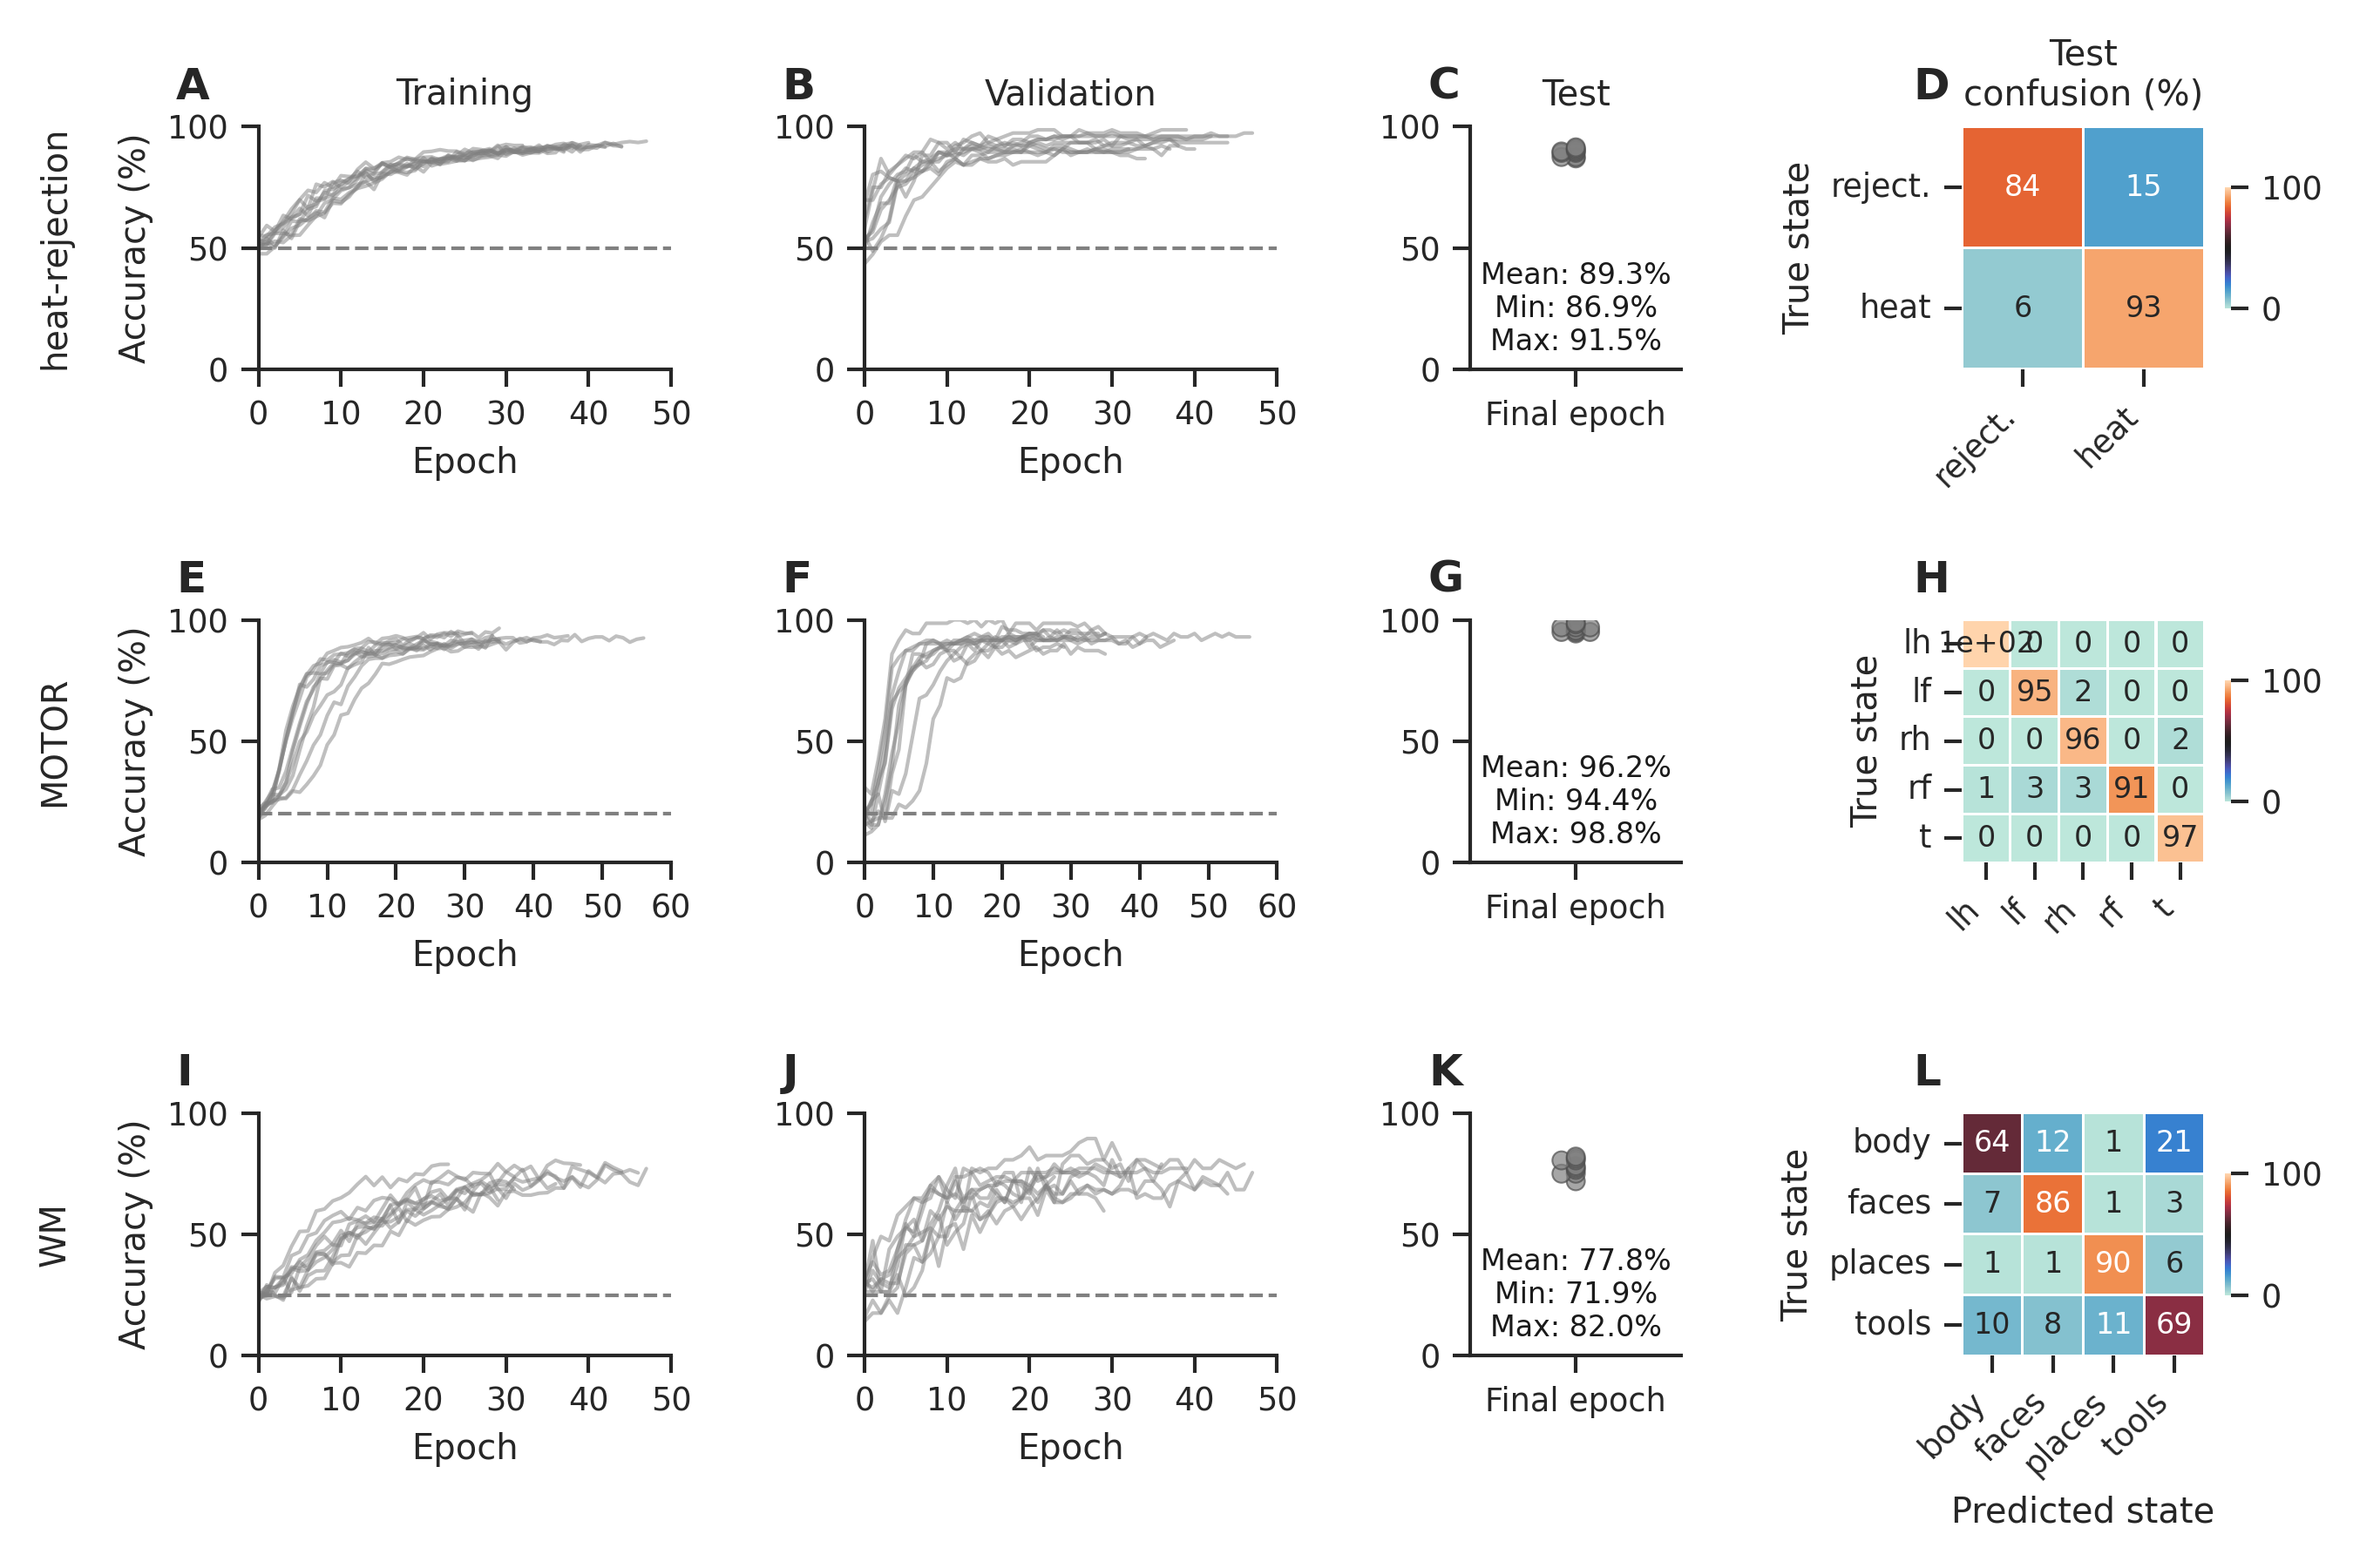
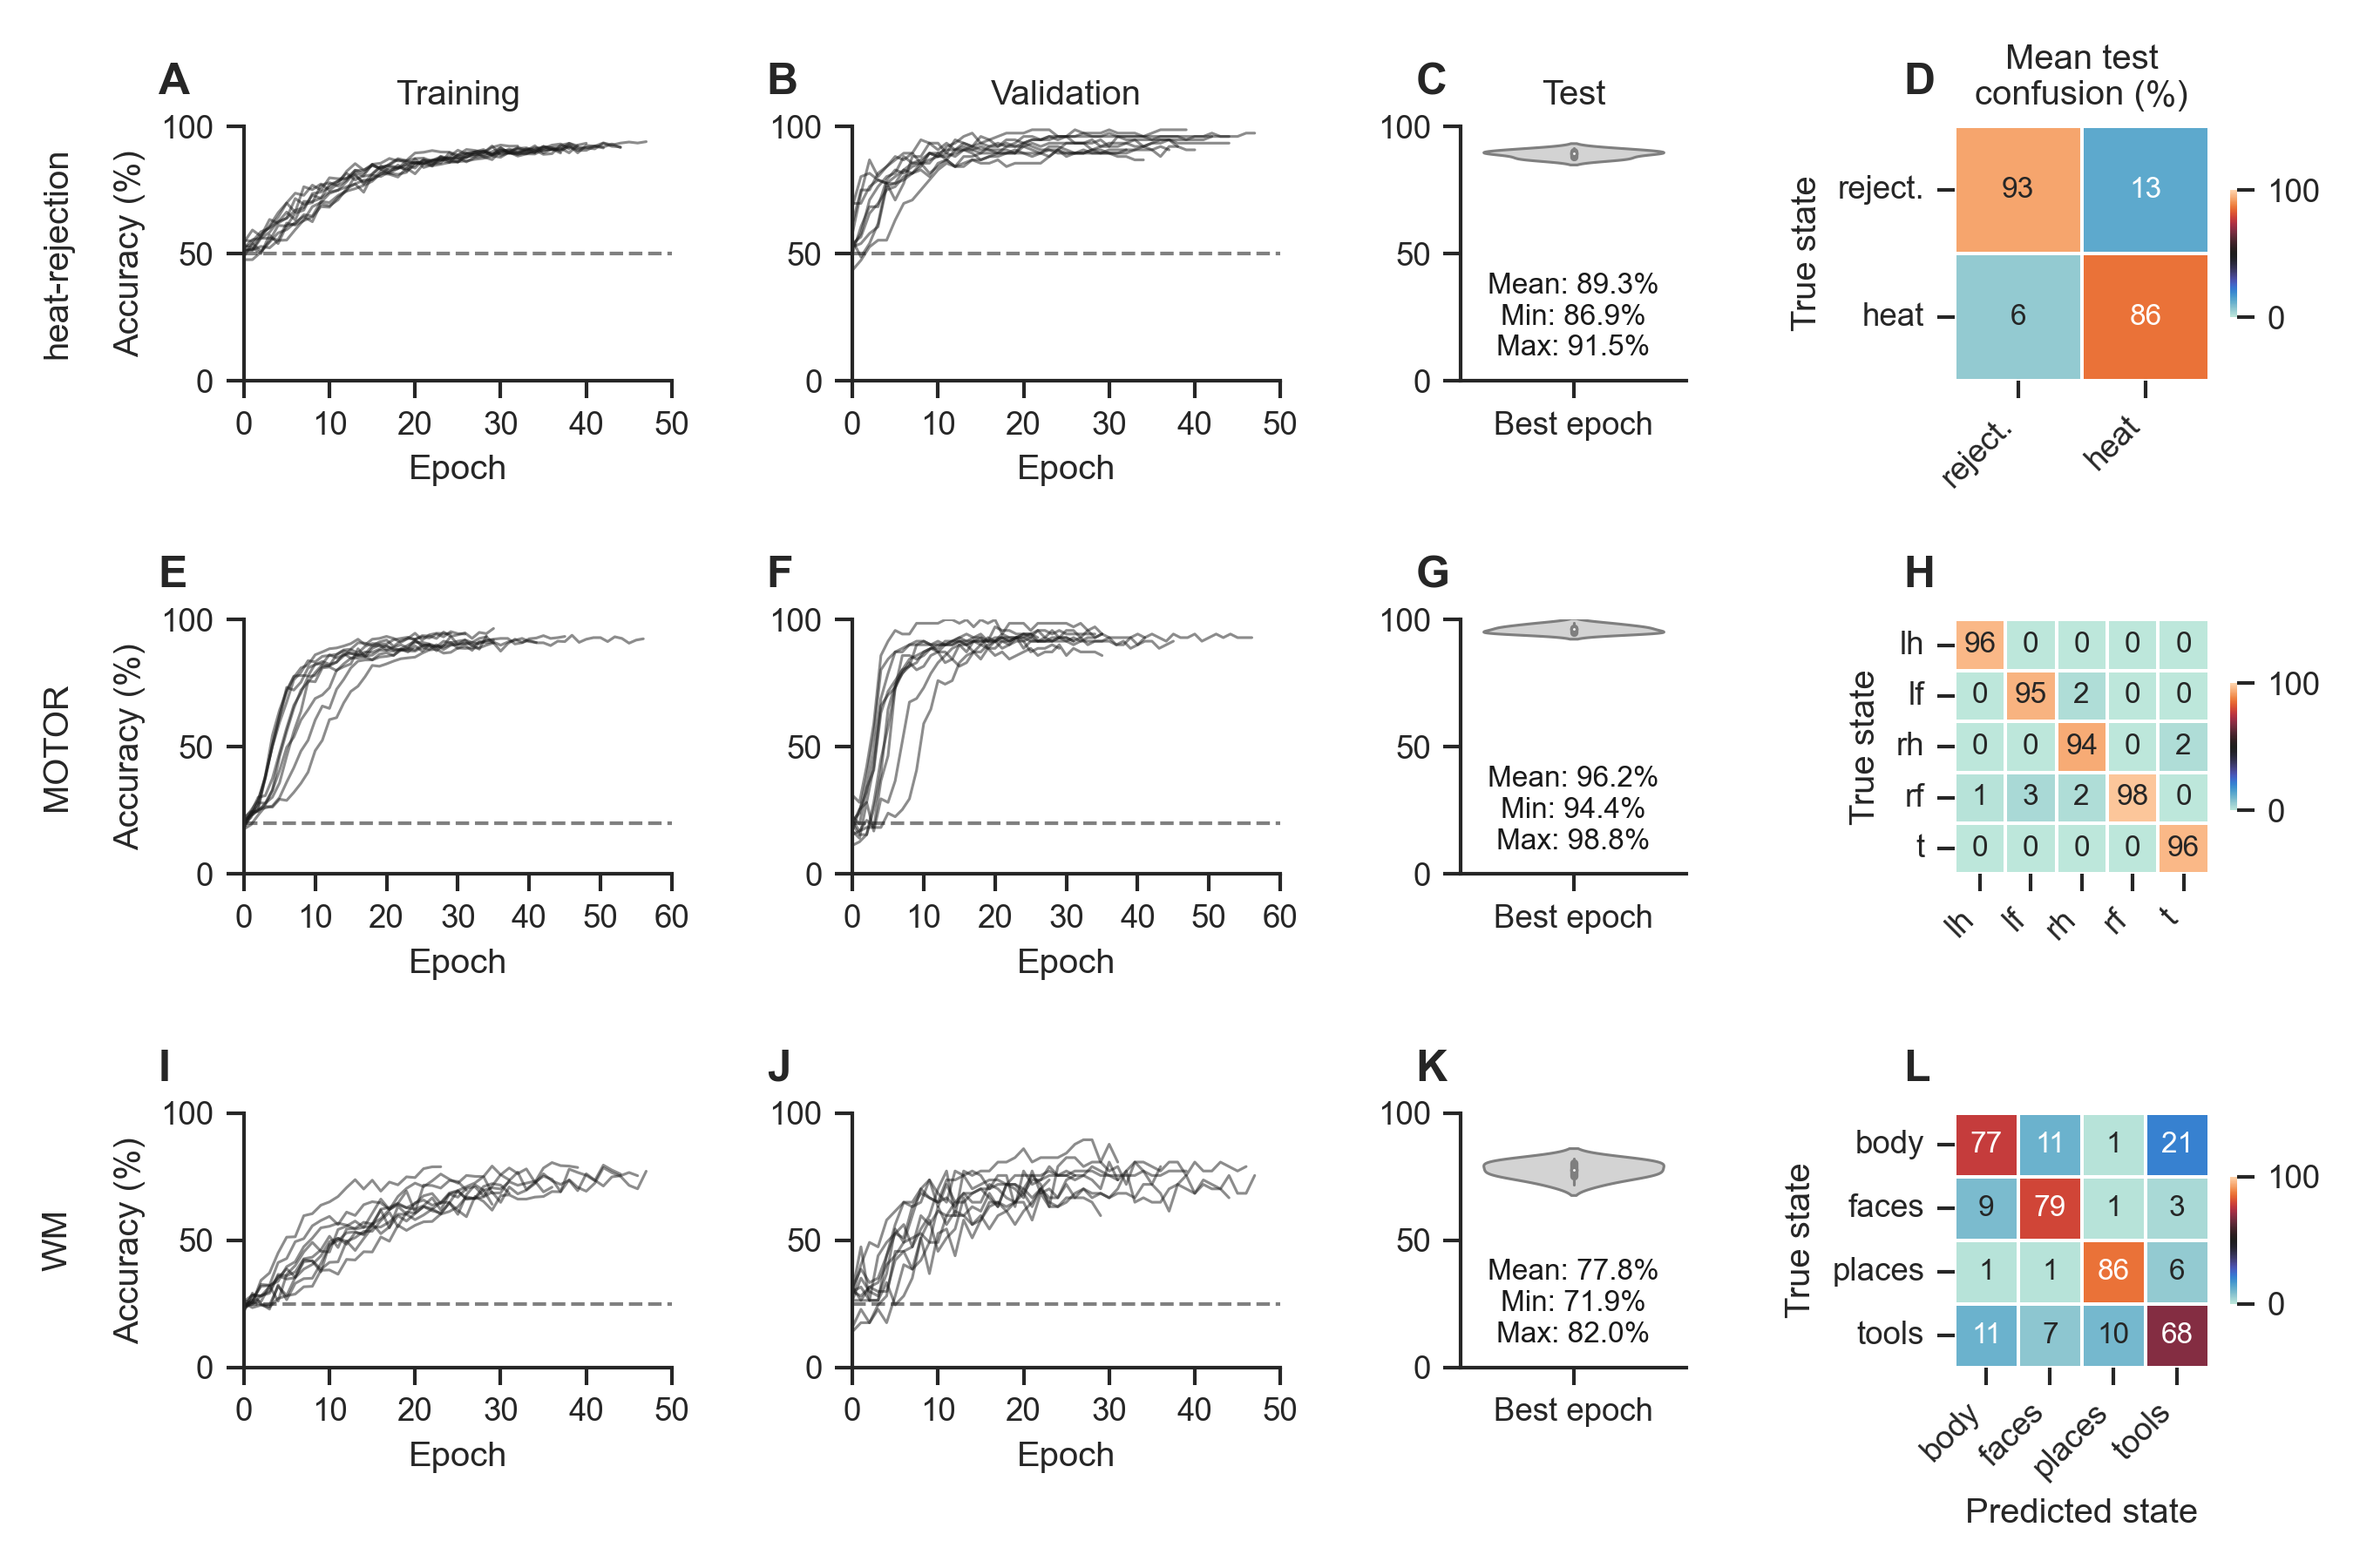
cleanup

diff --git a/scripts/sanity-checks.py b/scripts/sanity-checks.py
@@ -20,6 +20,7 @@ def sanity_checks_analysis(config=None) -> None:
         config = vars(get_argparse().parse_args())
 
     np.random.seed(config['seed'])
+    random_state = np.random.RandomState(config['seed'])
 
     os.makedirs(
         os.path.join(
@@ -117,12 +118,14 @@ def sanity_checks_analysis(config=None) -> None:
                     rl_mi = mutual_info_regression(
                         X=randomized_labels_img_dat.reshape(-1,1),
                         y=img_dat,
-                        discrete_features=False
+                        discrete_features=False,
+                        random_state=random_state
                     )
                     rm_mi = mutual_info_regression(
                         X=randomized_model_img_dat.reshape(-1,1),
                         y=img_dat,
-                        discrete_features=False
+                        discrete_features=False,
+                        random_state=random_state
                     )
                     randomized_labels_df.append(
                         pd.DataFrame(
@@ -228,7 +231,7 @@ def get_argparse() -> argparse.ArgumentParser:
     parser.add_argument(
         '--seed',
         metavar='INT',
-        default=1234,
+        default=12345,
         type=int,
         required=False,
         help='random seed'
@@ -238,5 +241,4 @@ def get_argparse() -> argparse.ArgumentParser:
 
 
 if __name__ == '__main__':
-    
     sanity_checks_analysis()

diff --git a/scripts/glm-BOLD_group-level.py b/scripts/glm-BOLD_group-level.py
@@ -68,14 +68,14 @@ def compute_group_level_BOLD_glm_maps(config=None) -> None:
                 f'{label}_zmap.nii.gz'
             )
         )
-        stat_map_thresholded, threshold = threshold_stats_img(
-            stat_img=stat_map,
-            mask_img=mask_img,
-            alpha=0.01,
-            height_control='fpr'
-        )
+        # stat_map_thresholded, threshold = threshold_stats_img(
+        #     stat_img=stat_map,
+        #     mask_img=mask_img,
+        #     alpha=0.01,
+        #     height_control='fpr'
+        # )
         plot_brain_img(
-            img=stat_map_thresholded,
+            img=stat_map,
             path=os.path.join(
                 config['group_level_maps_dir'],
                 f'{label}_zmap.png'
@@ -84,7 +84,7 @@ def compute_group_level_BOLD_glm_maps(config=None) -> None:
                 config['group_level_maps_dir'],
                 'tmp/'
             ),
-            threshold=threshold,
+            threshold=None,
             dpi=300
         )
         clear_matplotlib_fig_cache()
